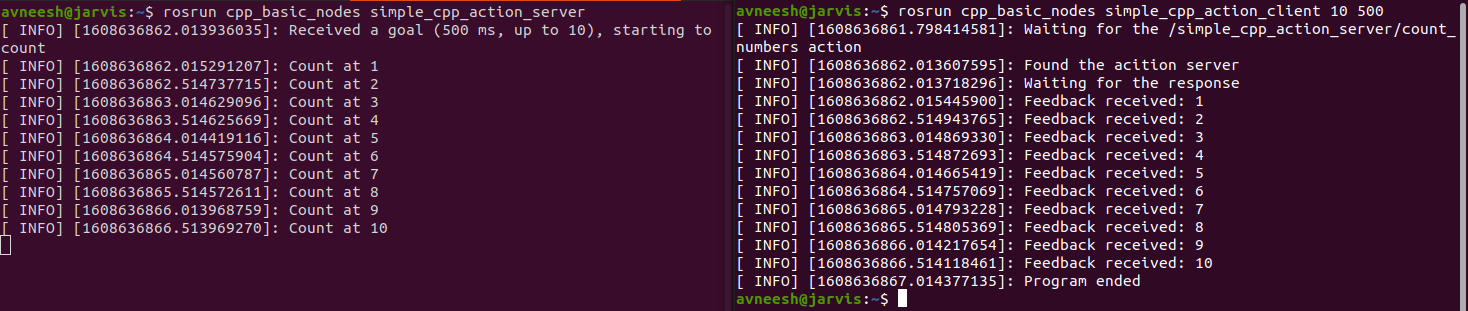
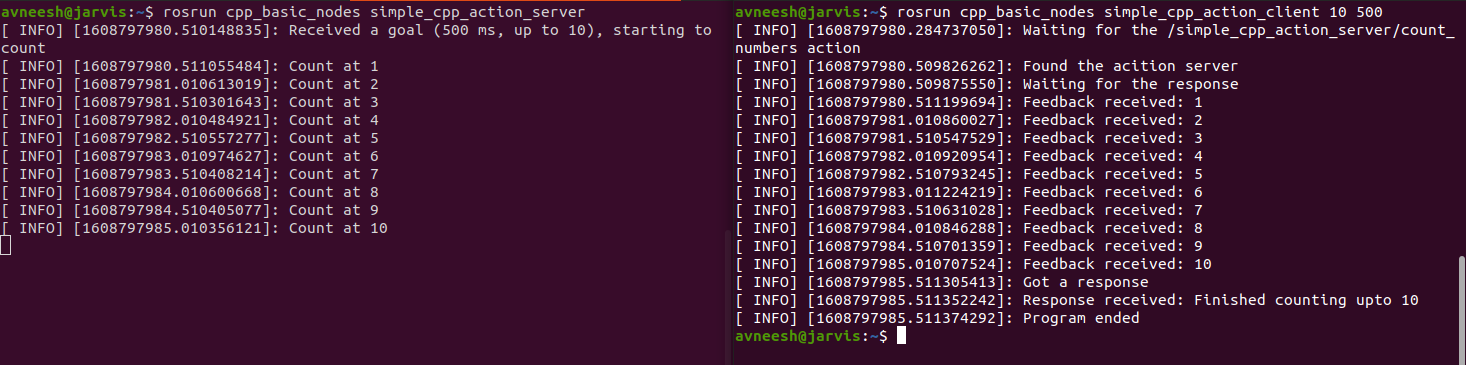
Minor bug fixes and documentation improvements for C++ Actions

Changed region(s): [[0.0, 0.0, 1.0, 0.9839]]

diff --git a/src/cpp_basic_nodes/src/simple_action_client.cpp b/src/cpp_basic_nodes/src/simple_action_client.cpp
@@ -38,7 +38,7 @@ int main(int argc, char **argv) {
     
     // Create an action client object
     /*
-     * Just as a service client is used to call a service server, an action client object is used to call an action server
+     * Just as a service client (proxy) is used to call a service server, an action client object is used to call an action server
      * The first argument is the action name and the second argument is 
      * 
      * Link: https://docs.ros.org/en/api/actionlib/html/classactionlib_1_1SimpleActionClient.html#a416667d5c870abc27227e45a492c1e3f
@@ -47,7 +47,7 @@ int main(int argc, char **argv) {
     ROS_INFO("Waiting for the /simple_cpp_action_server/count_numbers action");
     // Wait for the server with 1s timeout
     /*
-     * Used to wait until a timeout occurrs. If a timeout does occur, then false is returned and if it can connect to the action server,
+     * Used to wait until a timeout occurs. If a timeout does occur, then false is returned and if it can connect to the action server,
      * then true is returned.
      * The first argument is the duration
      * 
@@ -79,14 +79,14 @@ int main(int argc, char **argv) {
                                    boost::bind(recv_feedback, _1)   // Feedback
         );
         ROS_INFO("Waiting for the response");
-        int wait_duration = goal_obj.del_ms * goal_obj.target_number + 1;
+        int wait_duration_ms = goal_obj.del_ms * goal_obj.target_number;
         // Wait for the response
         /*
          * Wait for the action server to finish the task and send a result
          * 
          * Link: https://docs.ros.org/en/api/actionlib/html/classactionlib_1_1SimpleActionClient.html#a94b5a38fae6917f83331560b81eea341
          */
-        if (!action_client_obj.waitForResult(ros::Duration(wait_duration, 0))) {
+        if (action_client_obj.waitForResult(ros::Duration((wait_duration_ms / 1000) + 1, 0))) {
             ROS_INFO("Got a response");
             // Get the state of the result
             /*

diff --git a/src/cpp_basic_nodes/src/simple_action_server.cpp b/src/cpp_basic_nodes/src/simple_action_server.cpp
@@ -76,6 +76,7 @@ int main(int argc, char **argv) {
      * Second argumet is the name under which the action is being published
      * Third argument is the callback function, but binded using the boost::bind function
      *      This function creates custom function callbacks
+     * Fourth argument is false to imply that the server will be started manually using a start() call (to avoid race conditions)
      * 
      * Link (boost::bind): https://www.boost.org/doc/libs/1_75_0/libs/bind/doc/html/bind.html#bind.purpose
      * Link: https://docs.ros.org/en/api/actionlib/html/classactionlib_1_1SimpleActionServer.html

diff --git a/src/cpp_basic_nodes/README.md b/src/cpp_basic_nodes/README.md
@@ -451,7 +451,7 @@ Note that actions actually use messages to communicate. To see the messages for 
 rostopic list | grep -E "/simple_cpp_action_server/count_numbers/"
 ```
 
-You'll see messages for `cancel`, `feedback`, `goal`, `result` and `status`. To test and see how the actionlib mechanism may work, run these commands in separate terminals that you can see at the same time
+You'll see messages for `cancel`, `feedback`, `goal`, `result` and `status`. To test and see how the `actionlib` mechanism may work, run these commands in separate terminals that you can see at the same time
 
 ```bash
 rostopic echo /simple_cpp_action_server/count_numbers/result
@@ -484,7 +484,7 @@ The above command will tell the server to count up to `10` with a delay of `1000
 
 The `status` is being displayed on the bottom right, with the `feedback` on top and `result` left to it. The main node is at the top left and under it is the publisher to `goal`.
 
-As seen in the code, we have only programmed the logic of execution, and everything on the communication side has been handled by the `actionlib` package (which is why we needed it as a dependency). However, the method that we used is not a proper one used to call actions (see that we did not fill many fields in the `goal` publisher command above). For that, we need to create an action client. Then, `actionlib` would handle the publishing part as well, we'd only have to give it the `goal`. For that, check out the [Simple Action Client](#simple-action-client) below.
+As seen in the code, we have only programmed the logic of execution, and everything on the communication side has been handled by the `actionlib` package (which is why we needed it as a dependency). However, the method that we used here is not a proper one used to *call* actions (notice that we did not fill many fields in the `goal` publisher command above, namely header and goal ID). For that, we need to create an action client. Then, `actionlib` would handle the publishing part as well, we'd only have to give it the `goal`. For that, check out the [Simple Action Client](#simple-action-client) below.
 
 ### Simple Action Client
 
